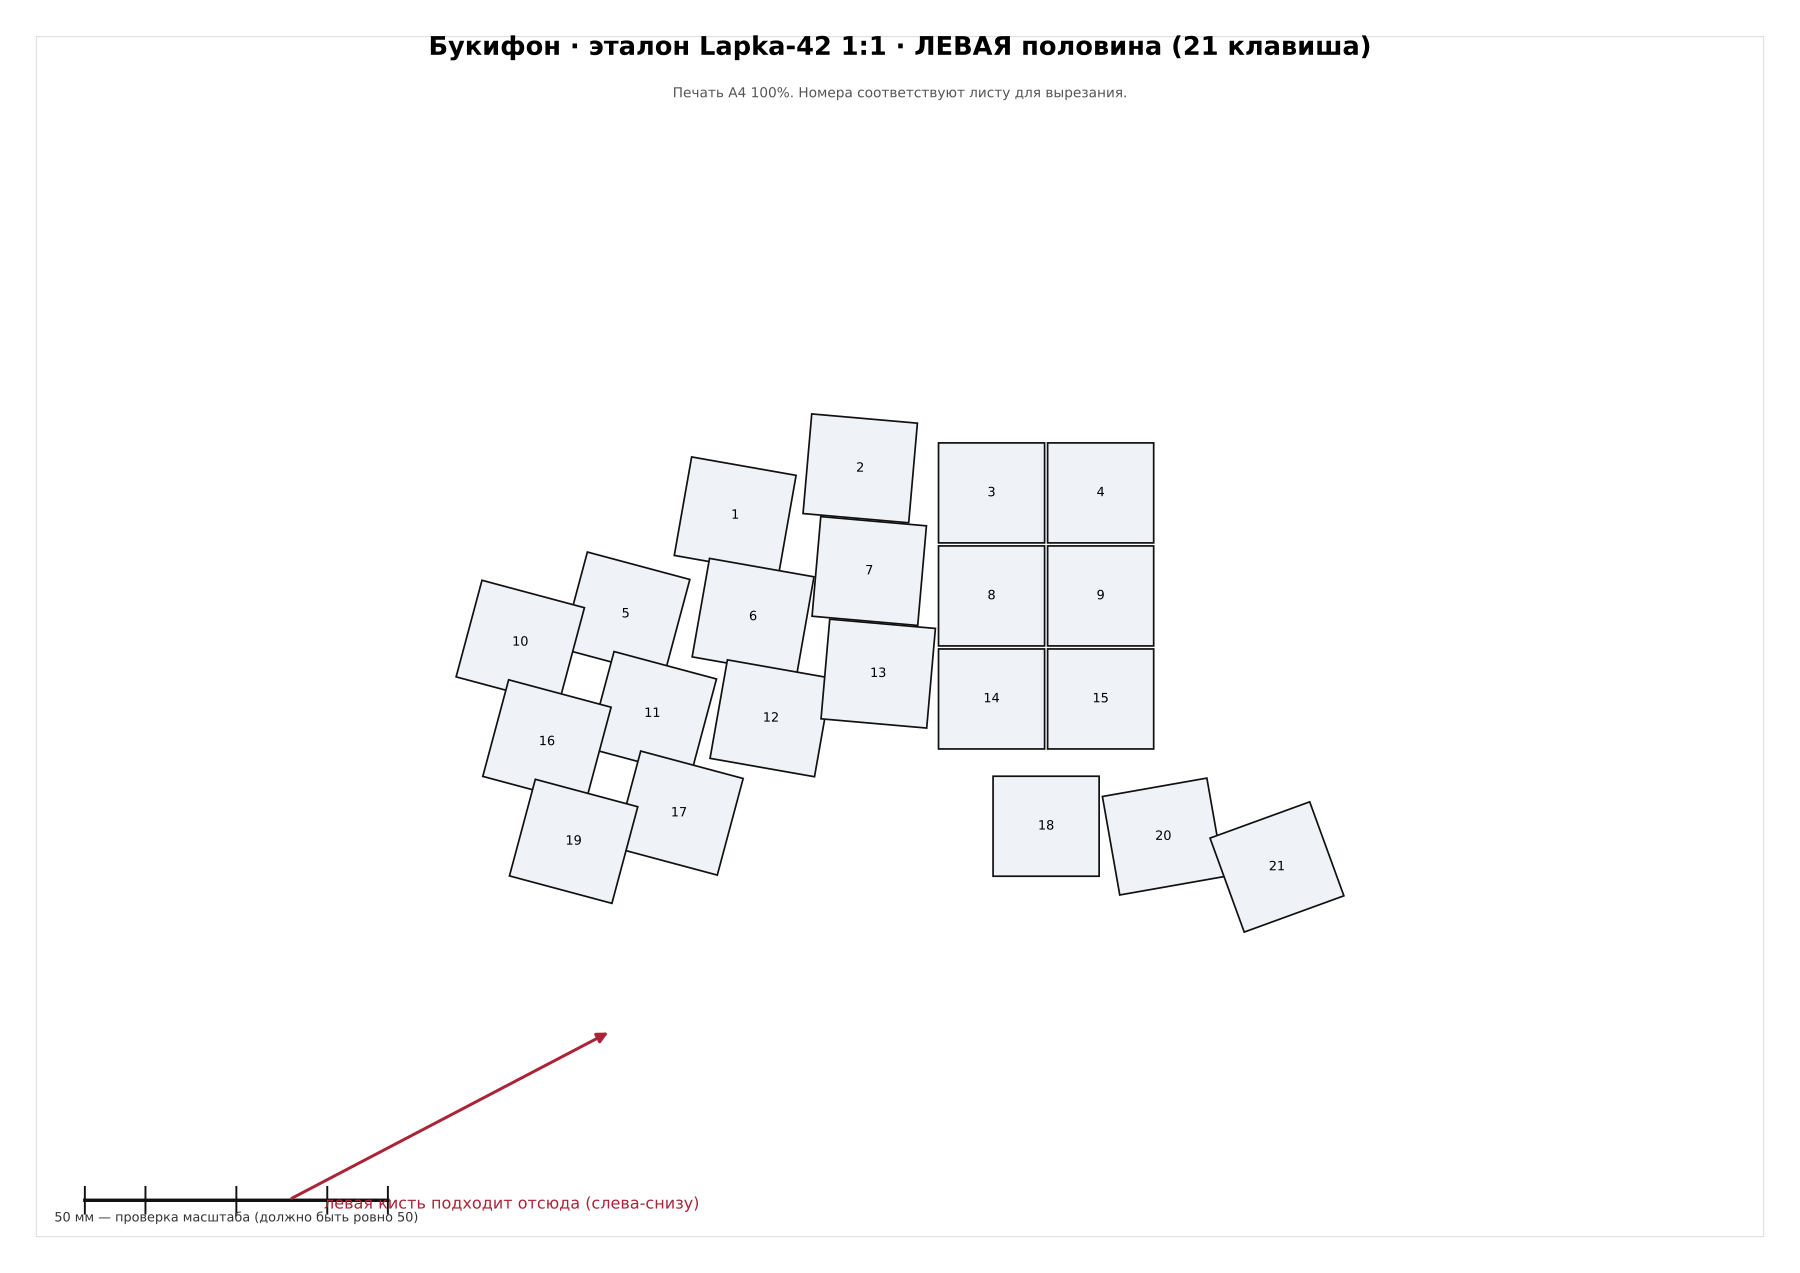
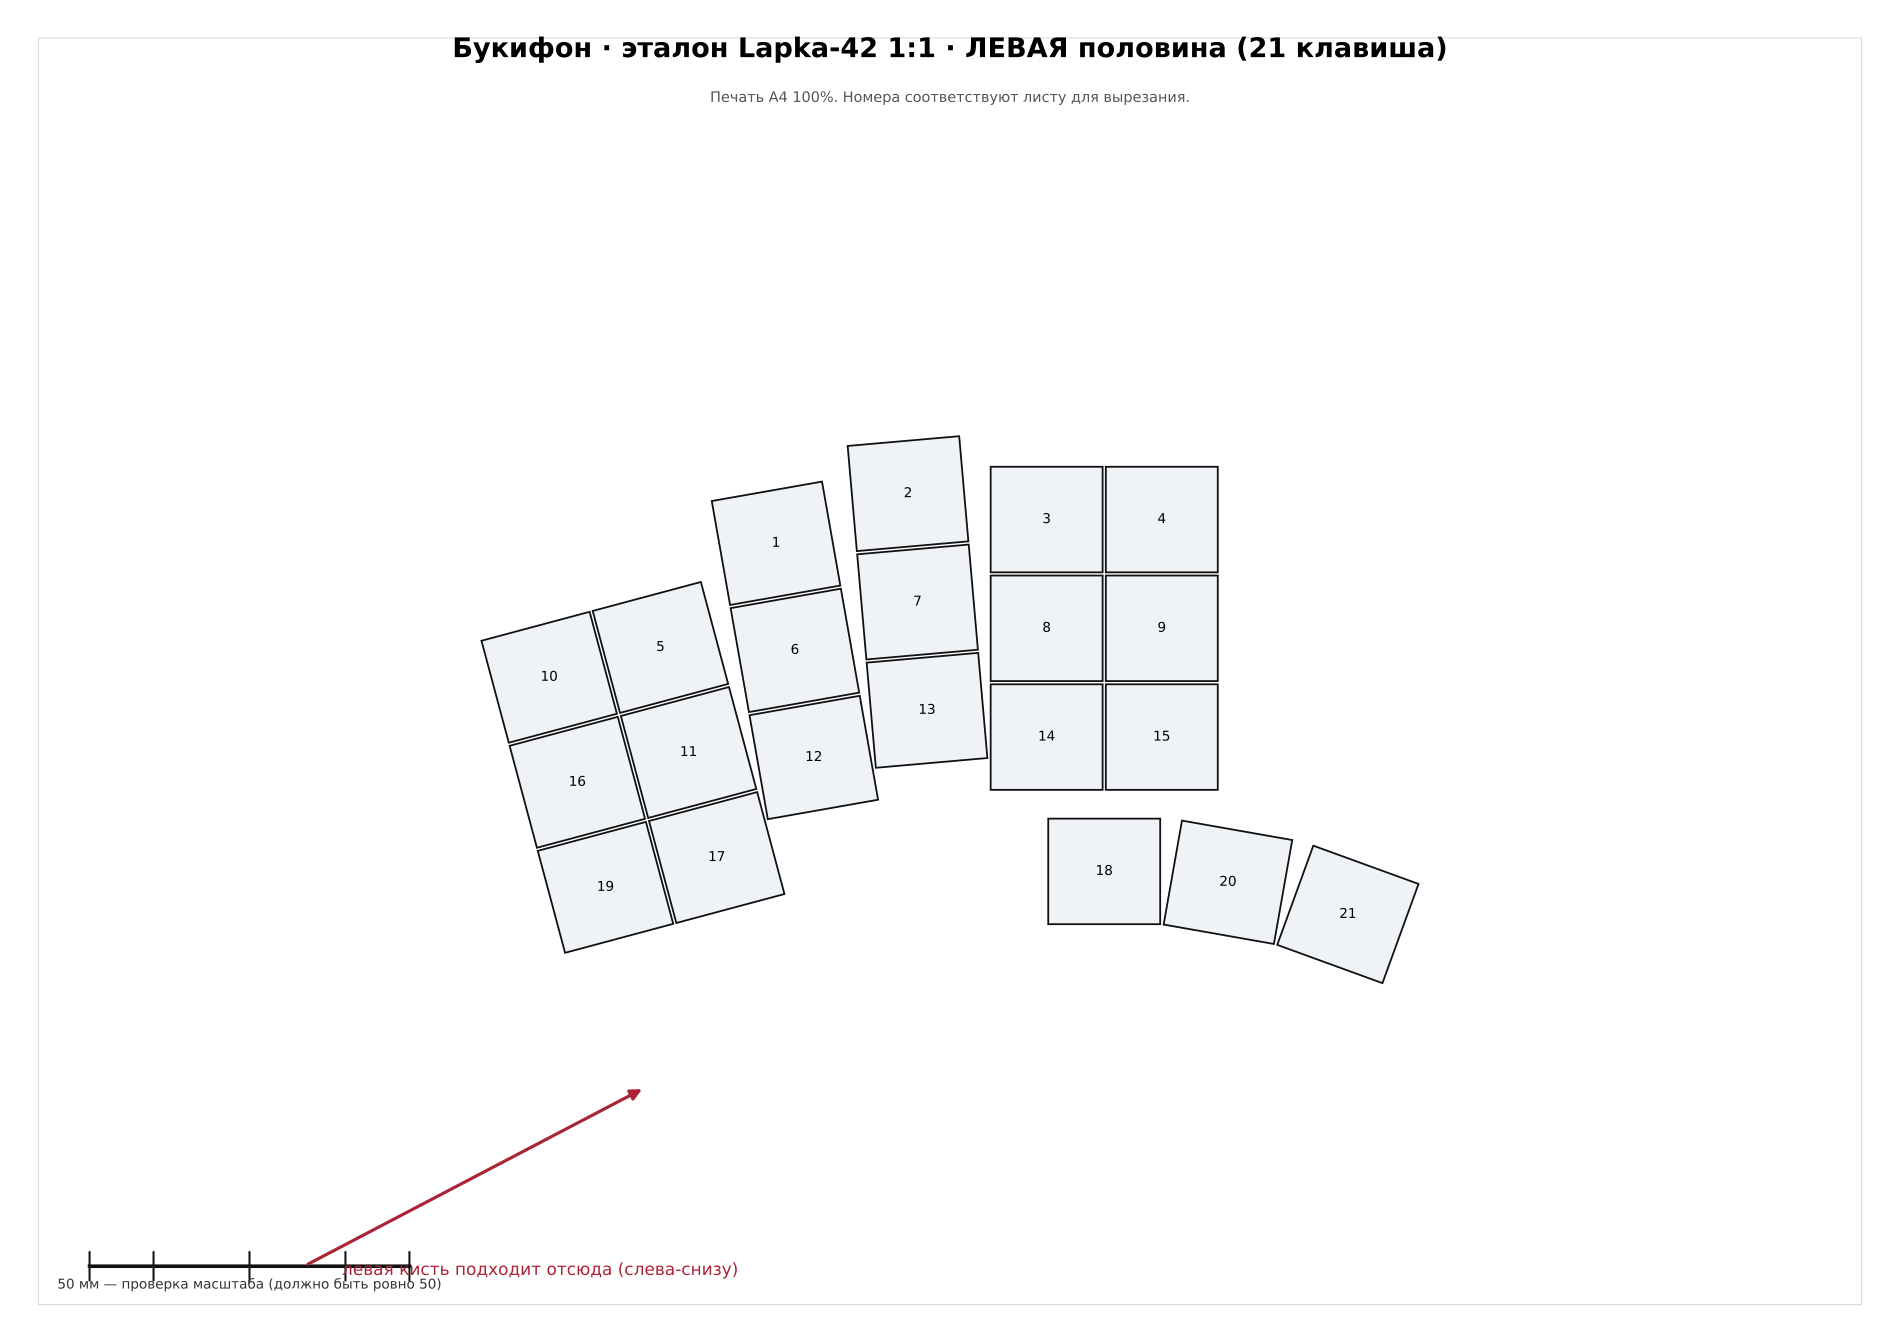
fix(print): правильный знак поворота клавиш на эталонных листах (позиции Lapka-42 не изменены, 0 пересечений)

diff --git a/tools/v1_3_options.py b/tools/v1_3_options.py
@@ -112,7 +112,7 @@ def draw_panel_base(ax):
         ax.text(x, y1 + 7, f"SL{i+1}", fontsize=5.4, ha="center", color="#555")
 
 
-def draw_keys(ax, keys, thumbs, label, flip=False):
+def draw_keys(ax, keys, thumbs, label, flip=True):
     """Левая половина как есть, правая — зеркало относительно центра панели."""
     hw, hh = L.KEYCAP_W / 2, L.KEYCAP_H / 2
     if not keys:
@@ -129,6 +129,7 @@ def draw_keys(ax, keys, thumbs, label, flip=False):
         for sign in (1, -1):
             px = dx + x if sign == 1 else W - (dx + x)
             py = dy + y
+            # ось Y графика инвертирована -> знак поворота обратный; позиции не меняются
             a = (-rot if flip else rot) if sign == 1 else (rot if flip else -rot)
             ax.add_patch(mp.Rectangle((px - hw, py - hh), L.KEYCAP_W, L.KEYCAP_H,
                                       angle=a, rotation_point="center",

diff --git a/tools/lapka_cutouts.py b/tools/lapka_cutouts.py
@@ -128,7 +128,9 @@ def layout_sheet():
             for (x, y, rot) in keys_left:
                 px = ox + (x - x0) if half == "left" else ox + (bw - (x - x0))
                 py = oy + (y - y0)
-                a = rot if half == "left" else -rot
+                # matplotlib: ось Y инвертирована, поэтому знак поворота берём обратным.
+                # Координаты (позиции) клавиш — ровно как в KiCad Lapka-42, без изменений.
+                a = -rot if half == "left" else rot
                 ax.add_patch(mp.Rectangle((px - CAP_W / 2, py - CAP_H / 2), CAP_W, CAP_H,
                                           angle=a, rotation_point="center",
                                           fc="#eef3f9", ec="#111", lw=0.8))
